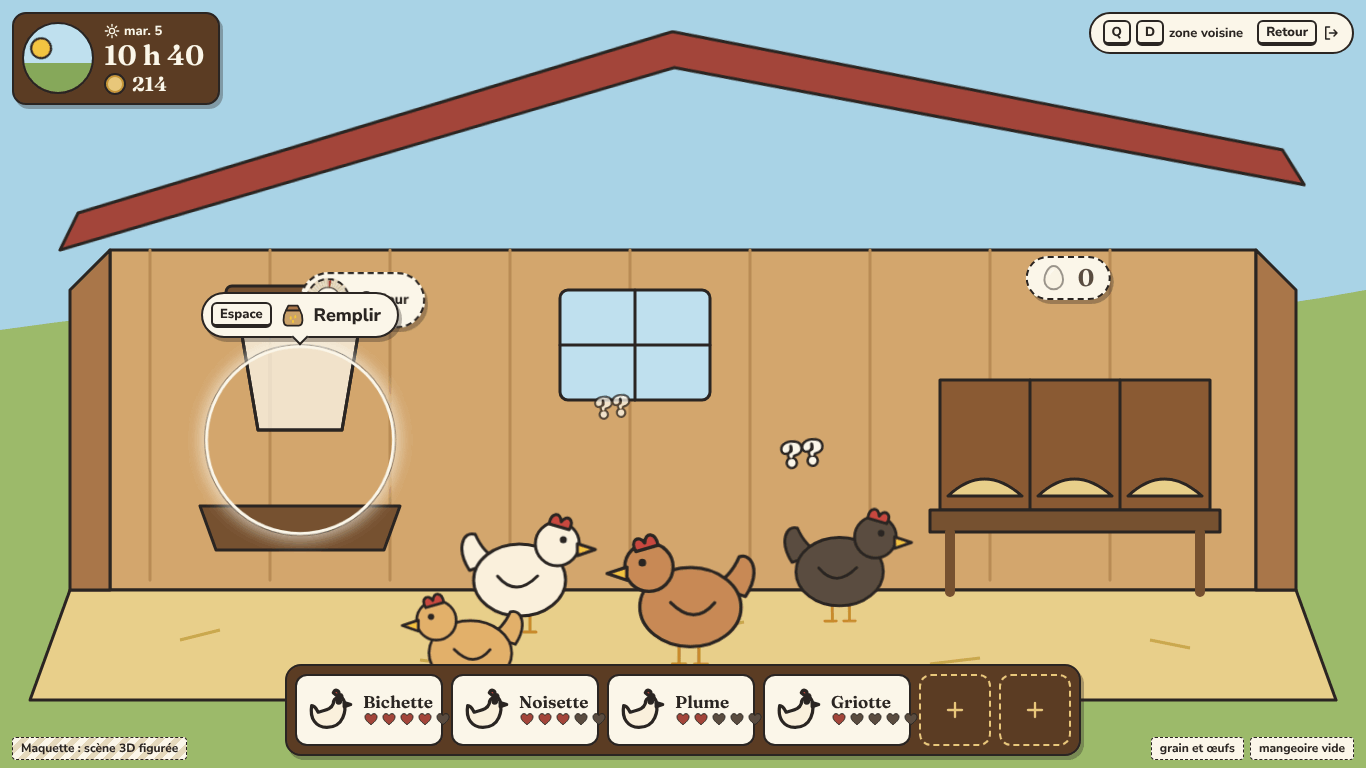
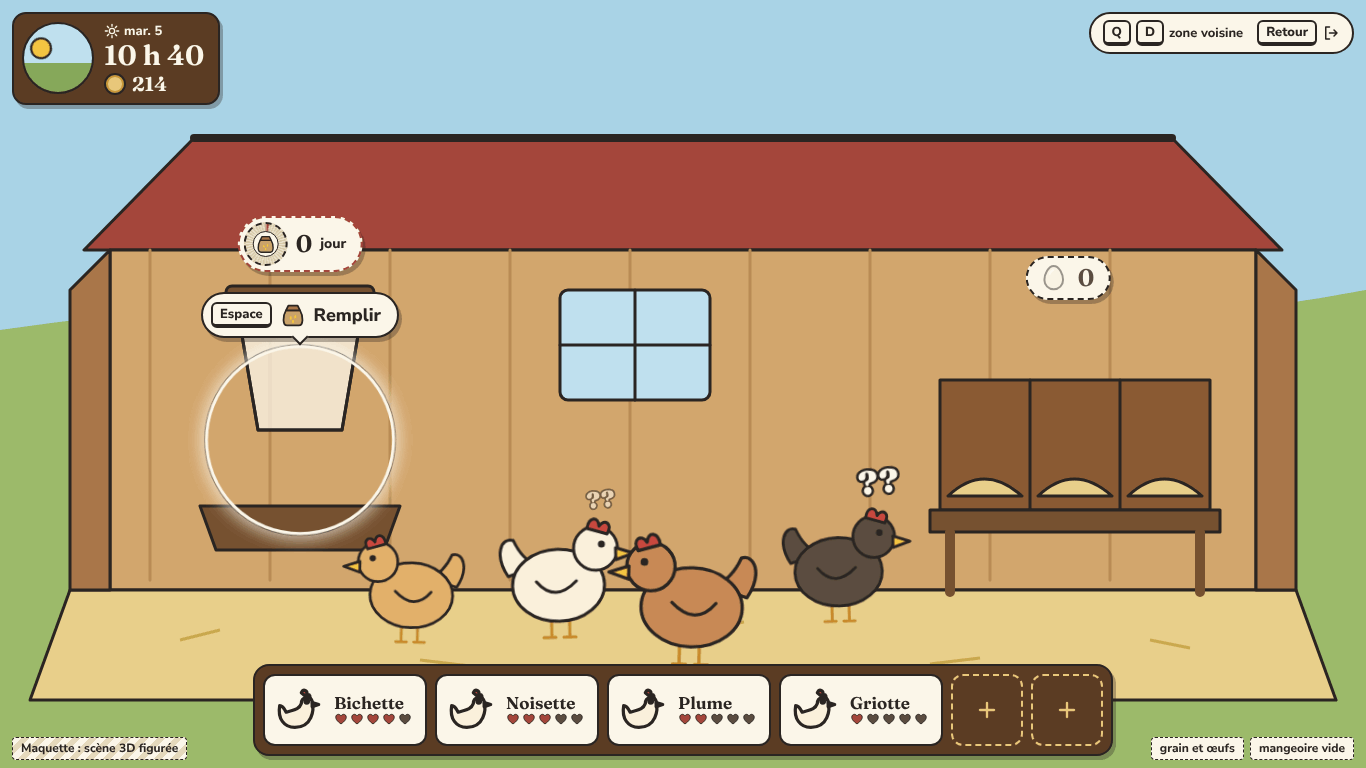
wip(refonte): enregistre l'avancement de l'interface et du second essai de personnage
Travail non relu, sur la branche de session seulement.

Claude-Session: https://claude.ai/code/session_01VmDB2YiCQfVrjqus2rvaX6

diff --git a/docs/jeux/jeu-1/refonte/maquettes/basse-cour.html b/docs/jeux/jeu-1/refonte/maquettes/basse-cour.html
@@ -10,8 +10,6 @@
   .world { position: fixed; left: 50%; top: 50%; width: 1366px; height: 768px; margin: -384px 0 0 -683px; z-index: 5; }
   .scene svg { animation: camera var(--d-scene) var(--ease) both; }
   @keyframes camera { from { transform: scale(0.82) translateY(3rem); opacity: 0.4; } }
-  #toit { animation: toit 0.9s var(--ease) 0.2s both; transform-box: fill-box; transform-origin: 0% 100%; }
-  @keyframes toit { from { transform: translateY(70px) rotate(0deg); } to { transform: translateY(0) rotate(-3deg); } }
   .poule { transform-box: fill-box; transform-origin: 50% 100%; animation: picore 1.6s ease-in-out infinite; }
   .poule:nth-of-type(2) { animation-delay: -0.5s; } .poule:nth-of-type(3) { animation-delay: -1.1s; } .poule:nth-of-type(4) { animation-delay: -0.8s; }
   @keyframes picore { 0%, 60%, 100% { transform: rotate(0); } 75% { transform: rotate(9deg); } 88% { transform: rotate(-3deg); } }
@@ -26,7 +24,7 @@
   .zone .need { animation: none; width: 2.75rem; height: 2.75rem; box-shadow: none; }
   .zone--egg { padding-left: 0.625rem; }
   .zone--egg .ic { width: 2rem; height: 2rem; }
-  .zone--alert { border-style: dashed; animation: bat 1.6s ease-in-out infinite; transform-origin: 0 0; }
+  .zone--alert { border-style: dashed; border-color: var(--stamp); }
   .prompt--big { font-size: 1.125rem; padding: 0.4375rem 1rem 0.4375rem 0.5rem; }
   .prompt--big .ic { width: 1.75rem; height: 1.75rem; }
   .heart-up { position: absolute; z-index: 11; color: var(--stamp); animation: coeur 2.2s var(--ease) infinite; }
@@ -35,12 +33,13 @@
 
   .cards { position: fixed; left: 50%; bottom: 0.75rem; z-index: 20; transform: translateX(-50%); display: flex; gap: 0.5rem; padding: 0.5rem; background: var(--wood-deep); border: 0.125rem solid var(--ink); border-radius: 1rem; box-shadow: var(--shadow-2); }
   .hen {
-    position: relative; display: grid; grid-template-columns: auto auto; align-items: center; column-gap: 0.5rem; width: 9.25rem; height: 4.5rem; padding: 0 0.625rem 0 0.375rem;
+    position: relative; display: grid; grid-template-columns: auto auto; align-items: center; column-gap: 0.5rem; width: 10.25rem; height: 4.5rem; padding: 0 0.625rem 0 0.375rem;
     background: var(--paper-raised); border: 0.125rem solid var(--ink); border-radius: 0.75rem; text-align: left;
   }
   .hen > svg { width: 3.25rem; height: 3.25rem; grid-row: span 2; }
   .hen__name { font-family: var(--font-display); font-size: 1.0625rem; font-weight: 650; line-height: 1.1; align-self: end; }
   .hen .hearts { align-self: start; }
+  .hen .hearts .ic { width: 0.875rem; height: 0.875rem; }
   .hen__egg { position: absolute; right: -0.375rem; top: -0.5rem; width: 1.625rem; height: 1.625rem; display: grid; place-items: center; background: var(--paper-raised); border: 0.125rem solid var(--ink); border-radius: 50%; }
   .hen__egg .ic { width: 1rem; height: 1rem; }
   .hen--free { width: 4.5rem; padding: 0; place-items: center; grid-template-columns: 1fr; background: transparent; border: 0.125rem dashed var(--brass); color: var(--brass); }
@@ -72,15 +71,15 @@
     <button class="zone" style="left:300px;top:272px" aria-label="Mangeoire : 3 jours de grain"><span class="need" style="--val:45"><i data-i="grain"></i></span>3 <small>jours</small></button>
     <div class="prompt prompt--big" style="left:300px;top:338px"><span class="key">Espace</span><i data-i="grain"></i>Remplir</div>
     <button class="zone zone--egg" style="left:1068px;top:300px" aria-label="Nid : 4 œufs à ramasser"><i data-i="oeuf"></i>4</button>
-    <div class="heart-up" style="left:598px;top:386px" aria-hidden="true"><i data-i="coeur"></i></div>
+    <div class="heart-up" style="left:584px;top:500px" aria-hidden="true"><i data-i="coeur"></i></div>
   </div>
   <div data-si="vide">
     <div class="target-ring" style="left:300px;top:440px;width:190px;height:190px"></div>
     <button class="zone zone--alert" style="left:300px;top:272px" aria-label="Mangeoire vide"><span class="need need--low" style="--val:3"><i data-i="grain"></i></span>0 <small>jour</small></button>
     <div class="prompt prompt--big" style="left:300px;top:338px"><span class="key">Espace</span><i data-i="grain"></i>Remplir</div>
     <button class="zone zone--egg" style="left:1068px;top:300px;color:var(--ink-muted);border-style:dashed" aria-label="Nid vide"><i data-i="oeuf" style="opacity:.45"></i>0</button>
-    <div class="emote" style="left:610px;top:420px" aria-hidden="true">??</div>
-    <div class="emote" style="left:800px;top:470px;animation-delay:-0.6s" aria-hidden="true">??</div>
+    <div class="emote" style="left:598px;top:510px" aria-hidden="true">??</div>
+    <div class="emote" style="left:876px;top:498px;animation-delay:-0.6s" aria-hidden="true">??</div>
   </div>
 </div>
 
@@ -123,10 +122,12 @@
       '<svg viewBox="0 0 1366 768" preserveAspectRatio="xMidYMid slice" aria-hidden="true">' +
       '<rect width="1366" height="768" fill="#a9d3e6"/><path d="M0 330q340 -50 700 -16t666 -24V768H0z" fill="#9cba6a"/>' +
       '<g ' + K + '>' +
+      // Le pan de toit du fond: celui de devant est retiré pour voir dedans (coupe).
+      '<path d="M84 250h1198l-110 -112H194z" fill="#a4463b"/><path d="M194 138h978" fill="none" stroke-width="8"/>' +
       '<path d="M110 250h1146v340H110z" fill="#d3a66d"/>' + planches +
       '<path d="M70 590h1226l40 110H30z" fill="#e8cf8a"/>' +
       '<path d="M110 250v340l-40 0v-300zM1256 250v340l40 0v-300z" fill="#a97749"/>' +
-      '<path id="toit" d="M60 250l623 -150l623 150l-20 -36l-603 -150l-603 150z" fill="#a4463b"/>' +
+
       // Fenêtre
       '<rect x="560" y="290" width="150" height="110" rx="8" fill="#bfe0ee"/><path d="M635 290v110M560 345h150" fill="none"/>' +
       // Mangeoire à trémie: le niveau de grain se voit
@@ -140,7 +141,7 @@
       '</g>' +
       // Paille au sol
       '<g stroke="#c9a94e" stroke-width="3" fill="none"><path d="M180 640l40 -10M420 660l50 6M700 630l44 -8M930 664l50 -6M1150 640l40 8M560 690l40 -6"/></g>' +
-      poule(520, 610, 1.0, '#fbf1dc', 1) + poule(690, 640, 1.1, '#c98a55', -1) + poule(840, 600, 0.95, '#5b4d40', 1) + poule(470, 680, 0.9, '#e2b06a', -1) +
+      poule(560, 615, 1.0, '#fbf1dc', 1) + poule(730, 640, 1.1, '#c98a55', -1) + poule(840, 600, 0.95, '#5b4d40', 1) + poule(410, 622, 0.9, '#e2b06a', -1) +
       '</svg>';
     window.addEventListener('hashchange', function () { location.reload(); });
   })();

diff --git a/docs/jeux/jeu-1/refonte/interface.md b/docs/jeux/jeu-1/refonte/interface.md
@@ -150,12 +150,12 @@ Maquette: `maquettes/dialogue.html`.
 Maquette: `maquettes/carnet-sac.html`.
 
 - **But**: un seul objet à ouvrir pour tout retrouver (réponse 61).
-- **Contenu**: un carnet ouvert à plat, deux pages (1120 x 630 px). Sept onglets en signets de tissu sur la tranche droite, en images seulement; le signet ouvert sort davantage et montre son nom. Ordre: Sac, Quêtes, Habitants, Collections, Carte, Tenues, Réglages. En haut de la page de gauche: le jeton du joueur, ses trois besoins (toujours visibles ici), l'heure et la bourse (le HUD reste lisible derrière, ils ne sont donc pas répétés). En pied: les touches utiles en pictos (A, E onglets; Retour arrière fermer).
+- **Contenu**: un carnet ouvert à plat, deux pages (1064 x 608 px, plus les signets). Sept onglets en signets de tissu sur la tranche droite, en images seulement; le signet ouvert sort davantage et montre son nom. Ordre: Sac, Quêtes, Habitants, Collections, Carte, Tenues, Réglages. En haut de la page de gauche: le jeton du joueur, son prénom et ses trois besoins (toujours visibles ici). L'heure et la bourse ne sont pas répétées: le HUD reste visible au-dessus du carnet. En pied: les touches utiles en pictos (A, E onglets; Retour arrière fermer).
 - **États**: fermé; en ouverture; ouvert sur un onglet; onglet avec nouveauté (pastille ronde rouge tampon avec un point, pas de nombre); changement de page.
 - **Animations et 3D**: le carnet monte du bas, la couverture pivote sur la reliure (perspective CSS, 600 ms au total), les signets sortent l'un après l'autre (40 ms d'écart). Changer d'onglet: une page tourne (320 ms). Fermer: 200 ms, plus court que l'ouverture. Le personnage, dans le monde, sort son carnet: l'autre joueur voit qu'on est occupé. Le monde continue (jeu à deux, pas de pause), assombri derrière.
 - **Commun ou propre**: propre à chaque joueur. Quêtes, habitants rencontrés, carte et collections sont communs dans leur contenu; sac, tenues, cœurs d'amitié et réglages sont propres.
 - **Accessibilité**: `role="tablist"`, nom accessible sur chaque signet, étiquette au survol et au focus. Animations réduites: fondu de 120 ms, aucune rotation.
-- **1366x768**: 1120 x 630 px centré, 69 px de marge haute: l'horloge et la bourse restent visibles au-dessus à gauche. À 150 %: le carnet occupe tout l'écran et la page de droite (détail) passe sous la grille en un bandeau de 120 px.
+- **1366x768**: 1064 x 608 px, à 108 px du haut: l'horloge et la bourse restent entières au-dessus à gauche; les signets dépassent de 56 px à droite (96 px pour le signet ouvert). À 150 %: le carnet occupe tout l'écran et la page de droite (détail) passe sous la grille en un bandeau de 120 px.
 
 #### Onglet Sac
 
@@ -199,7 +199,7 @@ Maquette: `maquettes/carnet-sac.html`.
 - **Animations**: les portraits glissent quand les habitants se déplacent (mise à jour toutes les 2 s); le jeton du joueur bat doucement.
 - **Commun** pour le contenu; le curseur est propre.
 - **Accessibilité**: liste des lieux navigable au clavier, chaque lieu lu avec ses occupants.
-- **1366x768**: la carte tient entière (1080 x 560 px utiles), sans défilement ni zoom pour Aubrune; un lieu plus grand ajoute un zoom à deux crans (flèches haut et bas).
+- **1366x768**: la carte tient entière (1030 x 550 px utiles), sans défilement ni zoom pour Aubrune; un lieu plus grand ajoute un zoom à deux crans (flèches haut et bas).
 
 #### Onglet Tenues
 
@@ -216,7 +216,7 @@ Peu d'images possibles: c'est le seul onglet en texte. Volume (musique, sons, ba
 Maquette: `maquettes/boutique.html` (états `#acheter` et `#vendre`).
 
 - **But**: acheter et vendre sans se tromper, et comprendre d'un regard que chaque commerçant a ses goûts et ses prix (réponses 34, 64).
-- **Contenu**: à gauche, le commerçant en buste 3D derrière son comptoir, son nom et son métier en picto; il réagit. Deux grands onglets à images: **Acheter** (une étagère) et **Vendre** (ton sac et une flèche vers le comptoir). Au centre, la grille de vignettes avec le prix en pastille. À droite, le détail: l'objet en 3D qui tourne, son nom, son usage en pastilles, la quantité (Q moins, D plus), le total, un seul bouton. En haut à droite, ta bourse.
+- **Contenu**: à gauche, le commerçant en buste 3D derrière son comptoir, son nom et son métier en picto; il réagit. Deux grands onglets à images: **Acheter** (une étagère) et **Vendre** (ton sac et une flèche vers le comptoir). Au centre, la grille de vignettes avec le prix en pastille. À droite, le détail: l'objet en 3D qui tourne, son nom, son usage en pastilles, la quantité (Q moins, D plus), le total, un seul bouton. La bourse du HUD reste visible au-dessus du panneau: c'est vers elle que volent les pièces.
   - Acheter: ce que tu ne peux pas payer a sa pastille de prix barrée d'un trait et la pièce en pointillé.
   - Vendre: seul ton sac est montré. Ce que ce commerçant rachète est en tête, avec **son** prix. Ce qu'il ne rachète pas est rangé à la fin, grisé, en pointillé, avec le picto « main qui refuse »; au focus, le détail montre le portrait de qui le rachète, si on le sait déjà.
   - Mémoire des prix: au détail d'un objet à vendre, les portraits des commerçants à qui on l'a déjà vendu, avec leur prix; le meilleur porte une petite couronne. On apprend ainsi que le boulanger paie mieux les œufs que l'épicière, sans une phrase.
@@ -224,7 +224,7 @@ Maquette: `maquettes/boutique.html` (états `#acheter` et `#vendre`).
 - **Animations et 3D**: le buste du commerçant hoche la tête à l'achat, fait « non » à un refus; onomatopée « ♪ » pour une belle vente. Les pièces volent une par une (5 au plus, 400 ms). L'objet du détail tourne.
 - **Propre** à chaque joueur (chacun sa bourse, réponse 10); deux joueurs peuvent être dans la même boutique en même temps, chacun dans son menu. Le stock limité d'un article se met à jour chez les deux.
 - **Accessibilité**: prix lus « 2 pièces l'unité »; l'article refusé est annoncé « Odette n'en veut pas »; aucun état porté par la seule couleur (trait, pointillé, picto).
-- **1366x768**: panneau de 1180 x 620 px; commerçant 240 px, grille 5 colonnes de 84 px (15 articles par page, pages par A et E après les deux onglets), détail 320 px.
+- **1366x768**: panneau de 1180 x 608 px à 108 px du haut; commerçant 248 px, grille de 6 colonnes de 84 px (18 articles par page, pages à la molette ou aux flèches de page), détail 328 px.
 
 ### 5.5 Basse-cour
 
@@ -412,6 +412,22 @@ Conséquences:
 - Le monde ne se met jamais en pause dans un menu (jeu à deux); seule la pause de Duo fige la partie pour les deux.
 - Polices et palette actuelles gardées jusqu'à la bible artistique de la refonte (directeur-artistique).
 
-## 13. Passation
+## 13. Les maquettes
+
+Dans `maquettes/`: pages HTML et CSS autonomes (aucun réseau), `refonte.css` (jetons et composants), `commun.js` (pictos, décor figuré, états par ancre), `capturer.cjs` (captures à 1366x768), `verifier.cjs` (touches, débordements, contrastes). Les polices sont celles du dépôt (`games/la-petite-ligne/ui-maquettes/polices/`, OFL), avec repli sur les polices du système.
+
+| Page | États (ancres) | Ce qui bouge | Ce qu'on peut essayer |
+|---|---|---|---|
+| `hud.html` | `#jeu`, `#coup-d-oeil` | soleil du cadran, cible qui rebondit, bulle d'habitant, onomatopée, gain, médaillon qui bat | F: coup d'œil de 3 s |
+| `dialogue.html` | `#parle`, `#choix` | bandeau qui monte, portrait, texte lettre par lettre, bouche, triangle « suite », choix | Espace: tout afficher, puis les choix |
+| `carnet-sac.html` | `#sac`, `#sans-sac` | carnet qui s'ouvre, signets, objet du détail, survol des cases (nom et objet qui bouge) | survol à la souris |
+| `boutique.html` | `#acheter`, `#vendre` | panneau, objet du détail, pièces qui volent vers la bourse (vendre) | A et E: acheter, vendre |
+| `basse-cour.html` | `#normal`, `#vide` | caméra d'entrée, poules qui picorent, cœur, « ?? » | |
+
+Tout ce qui tient lieu de 3D est marqué « 3D figurée » ou « Maquette: décor et objets 3D figurés »: décor, personnages, bustes et objets sont des dessins plats du studio. Un dessin plat ne peut pas faire un tour complet: il se balance; le vrai modèle tournera. `?reduit` avant l'ancre montre la version aux animations réduites.
+
+Limites de ces maquettes: ce sont des images de référence pour valider la direction, pas des prototypes. Seules les touches du tableau répondent; la navigation complète au clavier (flèches dans les grilles, focus) n'y est pas câblée et reste à tester sur la démonstration du jeu.
+
+## 14. Passation
 
 Pour le dev du jeu, quand le client aura validé: les maquettes donnent les mesures et les textes exacts des cinq écrans clés; `maquettes/refonte.css` porte les jetons nouveaux (durées, courbes) et les composants de la section 7. À faire ensuite par ux-ui-designer: maquettes de l'éditeur de personnage, de la carte, de la cuisine et du mode déco; contrôle à 1280x720, 1920x1080, facteur 2, tailles 125 et 150 %; script de parcours au clavier.
